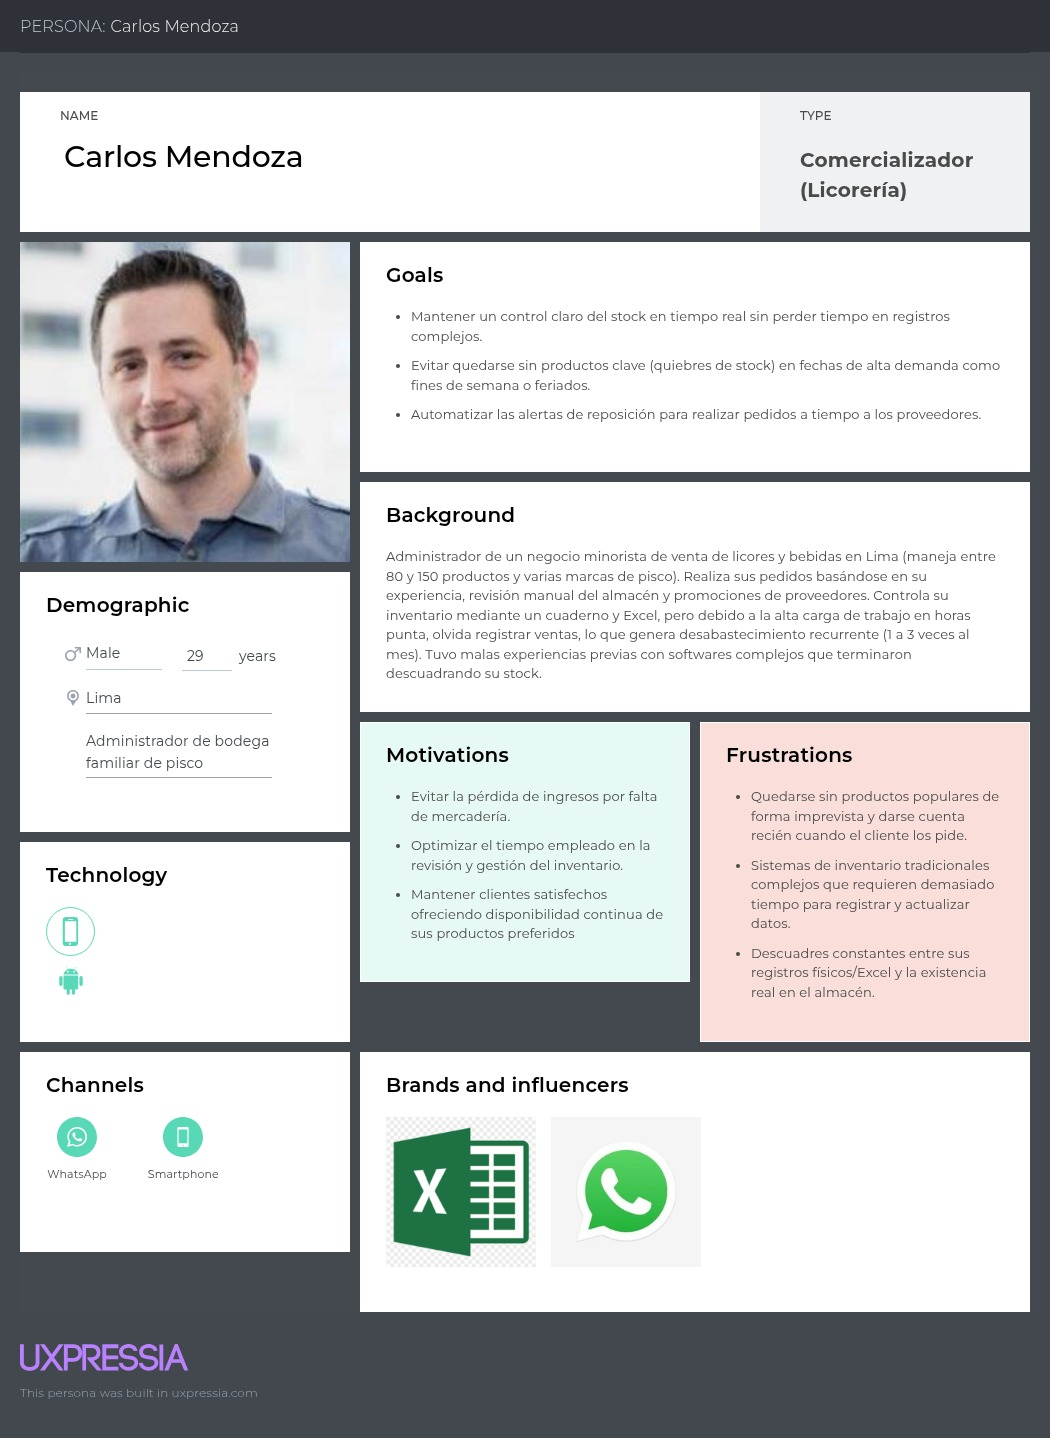
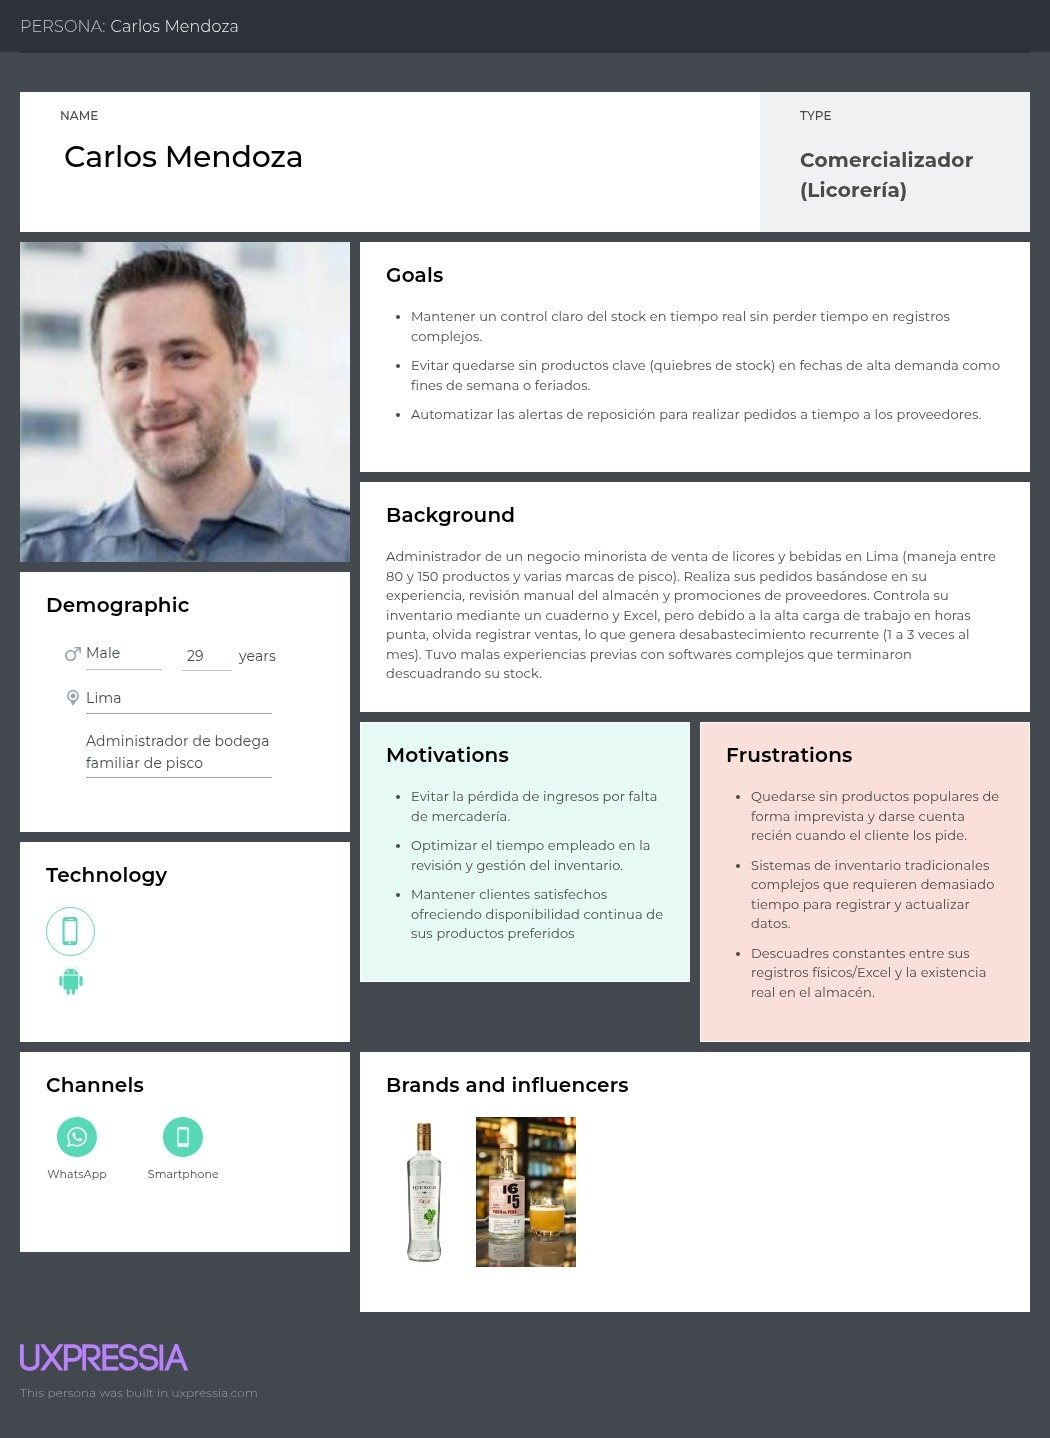
docs(report): update the user personas with the professor feedback

Changed region(s): [[0.3657, 0.765, 0.64, 0.8873]]

diff --git a/report/20-requirements-elicitation.md b/report/20-requirements-elicitation.md
@@ -703,7 +703,7 @@ Las fichas de User Persona se elaboraron en UXPressia, una para cada segmento ob
 
 *Nota.* Elaboración propia en UXPressia (2026).
 
-*Descripción.* La ficha presenta a Ricardo Donayre como arquetipo del segmento Productor: administrador de una bodega familiar de pisco, de 33 años (promedio de edad de los tres productores entrevistados), que gestiona el negocio desde su sede comercial en Lima mientras la producción se realiza en un valle pisquero. Sus objetivos son monitorear a distancia las variables críticas del proceso y centralizar el control de lotes e inventario; sus frustraciones son enterarse tarde de una temperatura anómala, los viajes a la bodega y los descuadres entre el stock real y Excel. Usa el smartphone como dispositivo principal, Excel, WhatsApp, Instagram y Facebook. Cada atributo se respalda en las entrevistas según la tabla de trazabilidad siguiente.
+*Descripción.* La ficha presenta a Ricardo Donayre como arquetipo del segmento Productor: administrador de una bodega familiar de pisco, de 33 años (promedio de edad de los tres productores entrevistados), que gestiona el negocio desde su sede comercial en Lima mientras la producción se realiza en un valle pisquero. Sus objetivos son monitorear a distancia las variables críticas del proceso y centralizar el control de lotes e inventario; sus frustraciones son enterarse tarde de una temperatura anómala, los viajes a la bodega y los descuadres entre el stock real y Excel. Usa el smartphone como dispositivo principal, Excel, WhatsApp, Instagram y Facebook. En la sección de marcas e influencias, la ficha actualizada muestra a la Facultad de Ingeniería en Industrias Alimentarias de la UNAS (Tingo María) y a Tacama. Cada atributo se respalda en las entrevistas según la tabla de trazabilidad siguiente.
 
 
 **Segmento 2: Comercializador**
@@ -716,9 +716,9 @@ Las fichas de User Persona se elaboraron en UXPressia, una para cada segmento ob
 
 *Nota.* Elaboración propia en UXPressia (2026).
 
-*Descripción.* La ficha presenta a Carlos Mendoza como arquetipo del segmento Comercializador: administrador de una licorería o bodega de Lima, de 29 años (promedio de edad de los cuatro comercializadores entrevistados), que maneja entre 80 y 150 productos y controla su inventario con cuaderno y Excel. Sus objetivos son saber cuánto stock tiene sin revisar el almacén, evitar quiebres de stock y recibir una alerta para reponer a tiempo; sus frustraciones son quedarse sin productos cuando el cliente los pide, los sistemas complejos que abandonó y la reposición decidida por intuición. Usa el smartphone como dispositivo principal, WhatsApp y Excel. Cada atributo se respalda en las entrevistas según la tabla de trazabilidad siguiente.
+*Descripción.* La ficha presenta a Carlos Mendoza como arquetipo del segmento Comercializador: administrador de una licorería o bodega de Lima, de 29 años (promedio de edad de los cuatro comercializadores entrevistados), que maneja entre 80 y 150 productos y controla su inventario con cuaderno y Excel. Sus objetivos son saber cuánto stock tiene sin revisar el almacén, evitar quiebres de stock y recibir una alerta para reponer a tiempo; sus frustraciones son quedarse sin productos cuando el cliente los pide, los sistemas complejos que abandonó y la reposición decidida por intuición. Usa el smartphone como dispositivo principal, WhatsApp y Excel. En la sección de marcas e influencias, la ficha actualizada muestra dos marcas de pisco, entre ellas 1615. Cada atributo se respalda en las entrevistas según la tabla de trazabilidad siguiente.
 
-**Trazabilidad de las User Personas con las entrevistas.** La User Persona es un arquetipo: solo incluye los atributos que comparte la mayoría de los entrevistados de su segmento, tal como se registró en la sección 2.2.2 y se cuantificó en la sección 2.2.3. Los atributos que solo mencionó una persona, o que no se preguntaron, no se incluyen en la ficha; en particular, no se asignan estado civil, marca de dispositivo, sistema operativo, navegador ni tamaño de mercado, porque las entrevistas no los registran para la mayoría de los entrevistados.
+**Trazabilidad de las User Personas con las entrevistas.** La User Persona es un arquetipo: solo incluye los atributos que comparte la mayoría de los entrevistados de su segmento, tal como se registró en la sección 2.2.2 y se cuantificó en la sección 2.2.3. Los atributos que solo mencionó una persona, o que no se preguntaron, no se incluyen en la ficha; en particular, no se asignan estado civil, marca de dispositivo, sistema operativo, navegador ni tamaño de mercado, porque las entrevistas no los registran para la mayoría de los entrevistados. Las marcas e influencias que muestra cada ficha se incorporaron al actualizar las User Personas con la retroalimentación del docente y no se cuantifican en las tablas siguientes.
 
 | Atributo de la ficha de Ricardo Donayre (Productor) | Respaldo en las entrevistas (n = 3) | Fuente |
 | :------------- | :-------------- | :---------- |
